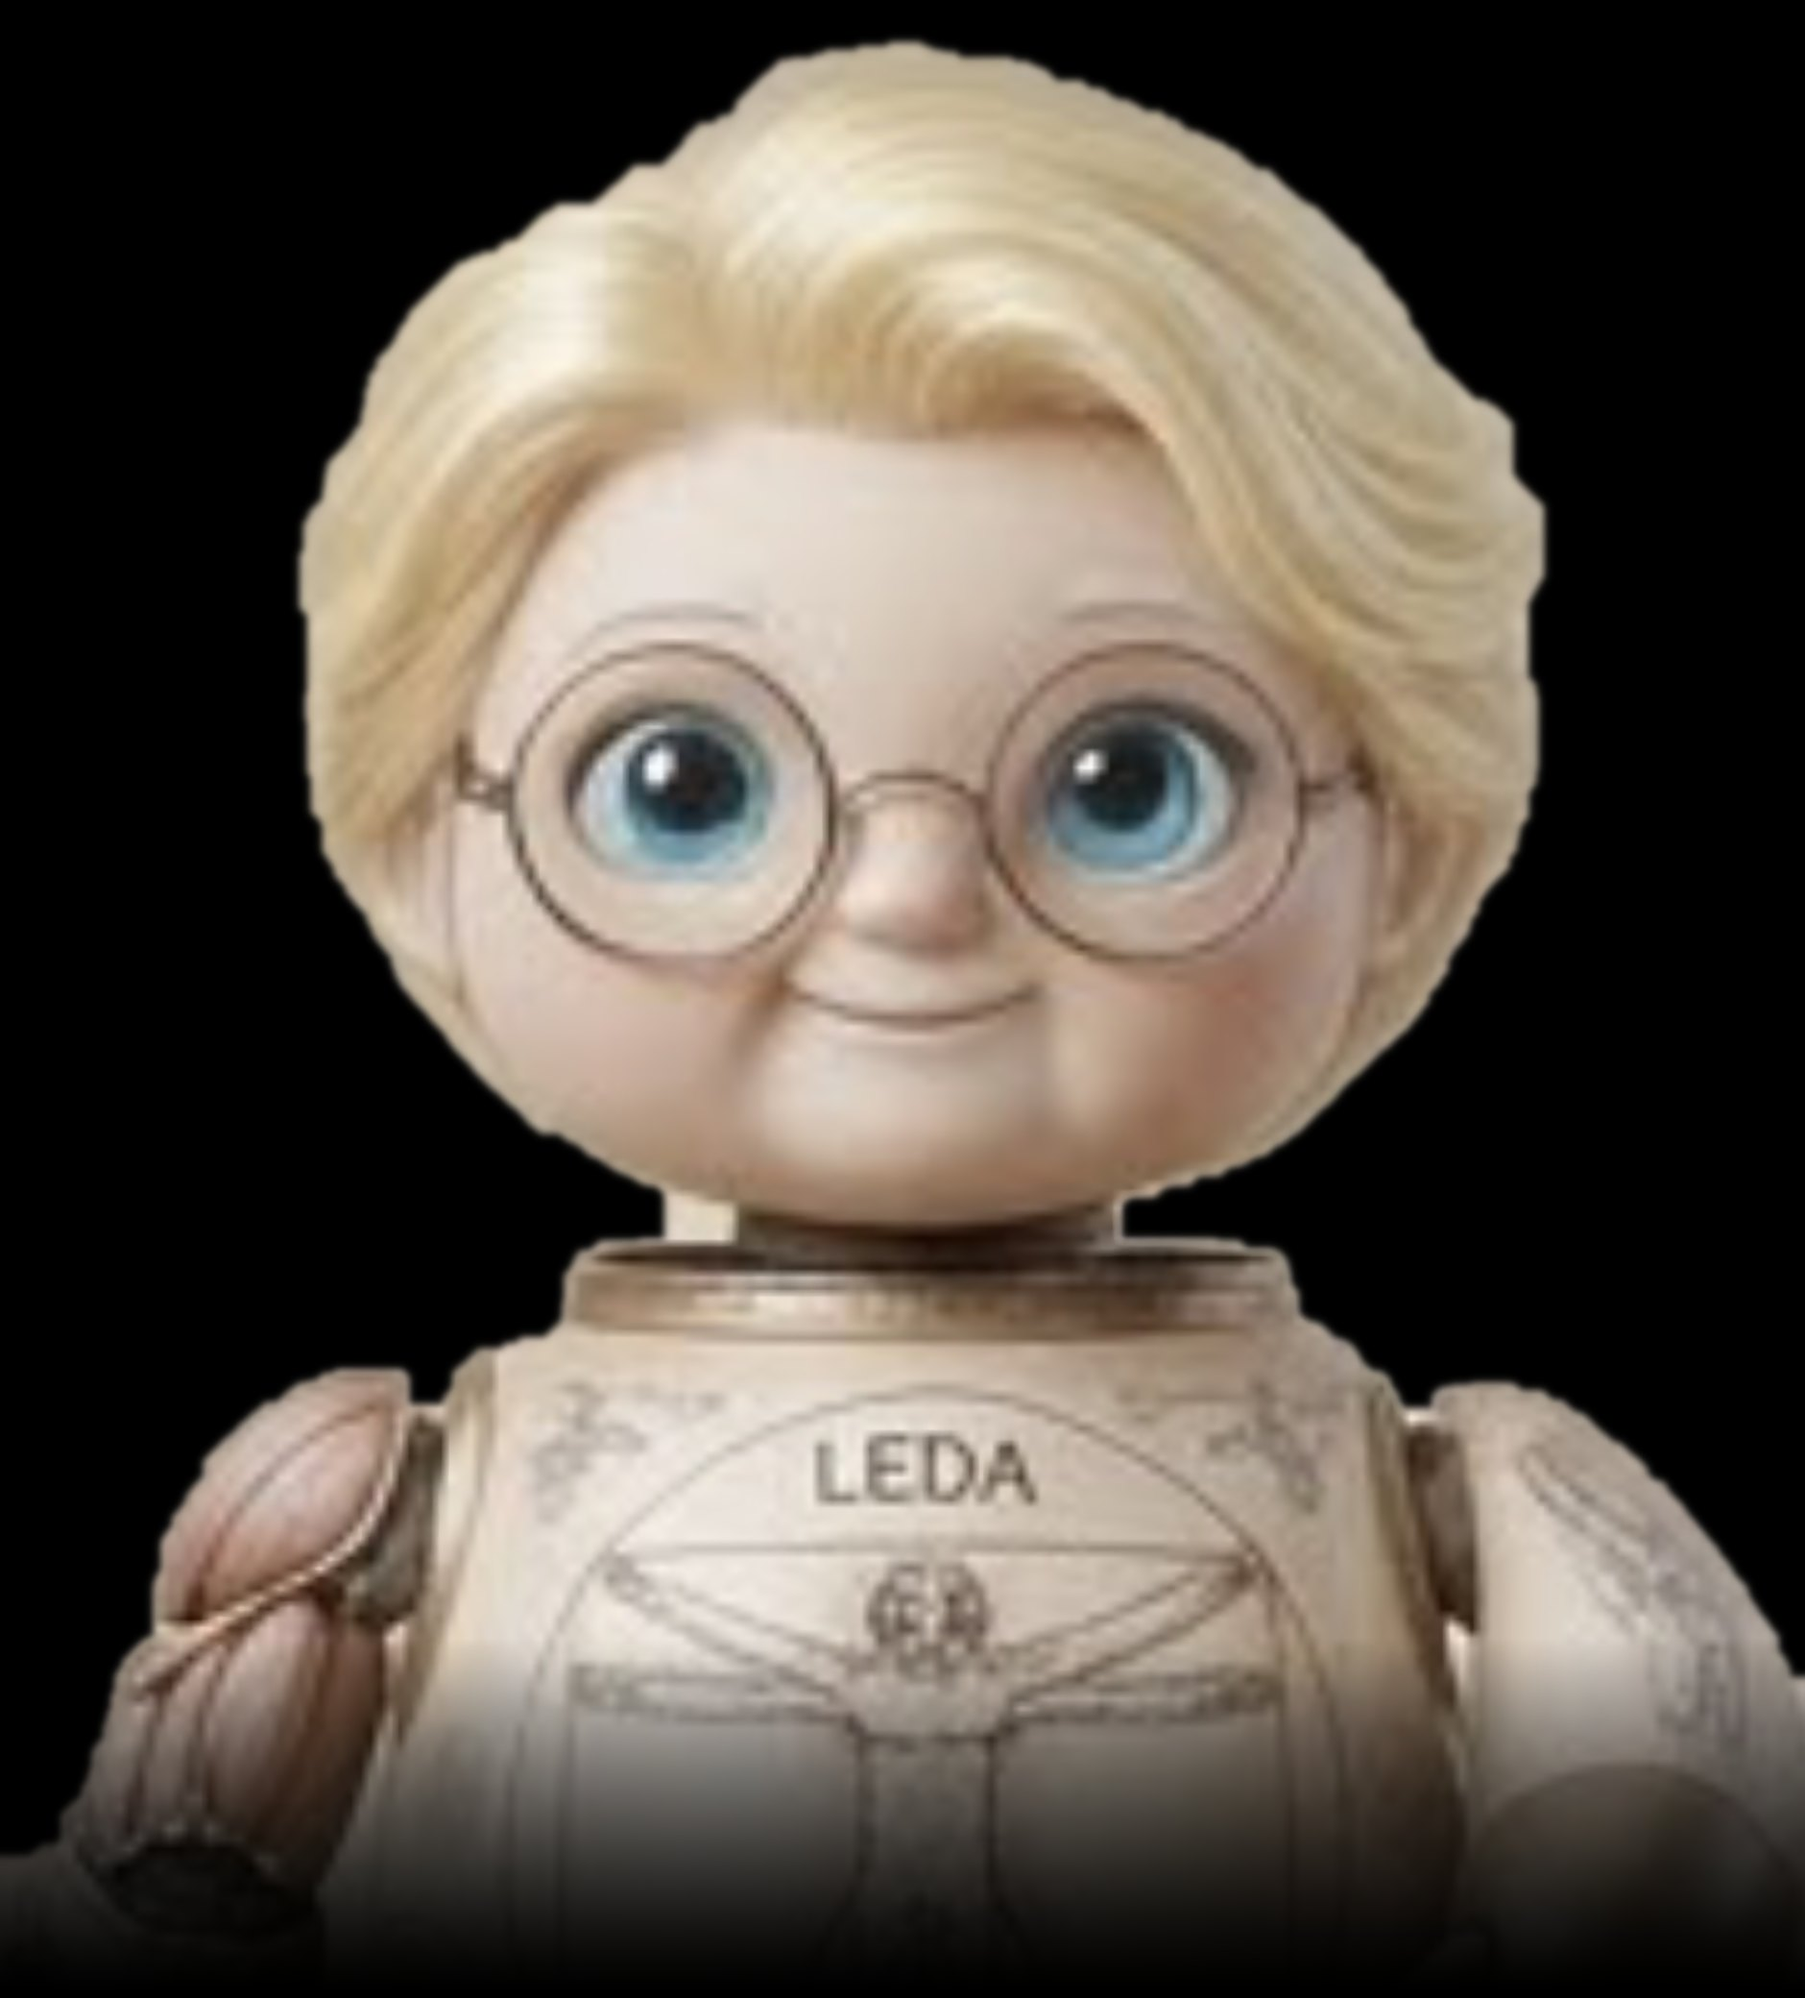
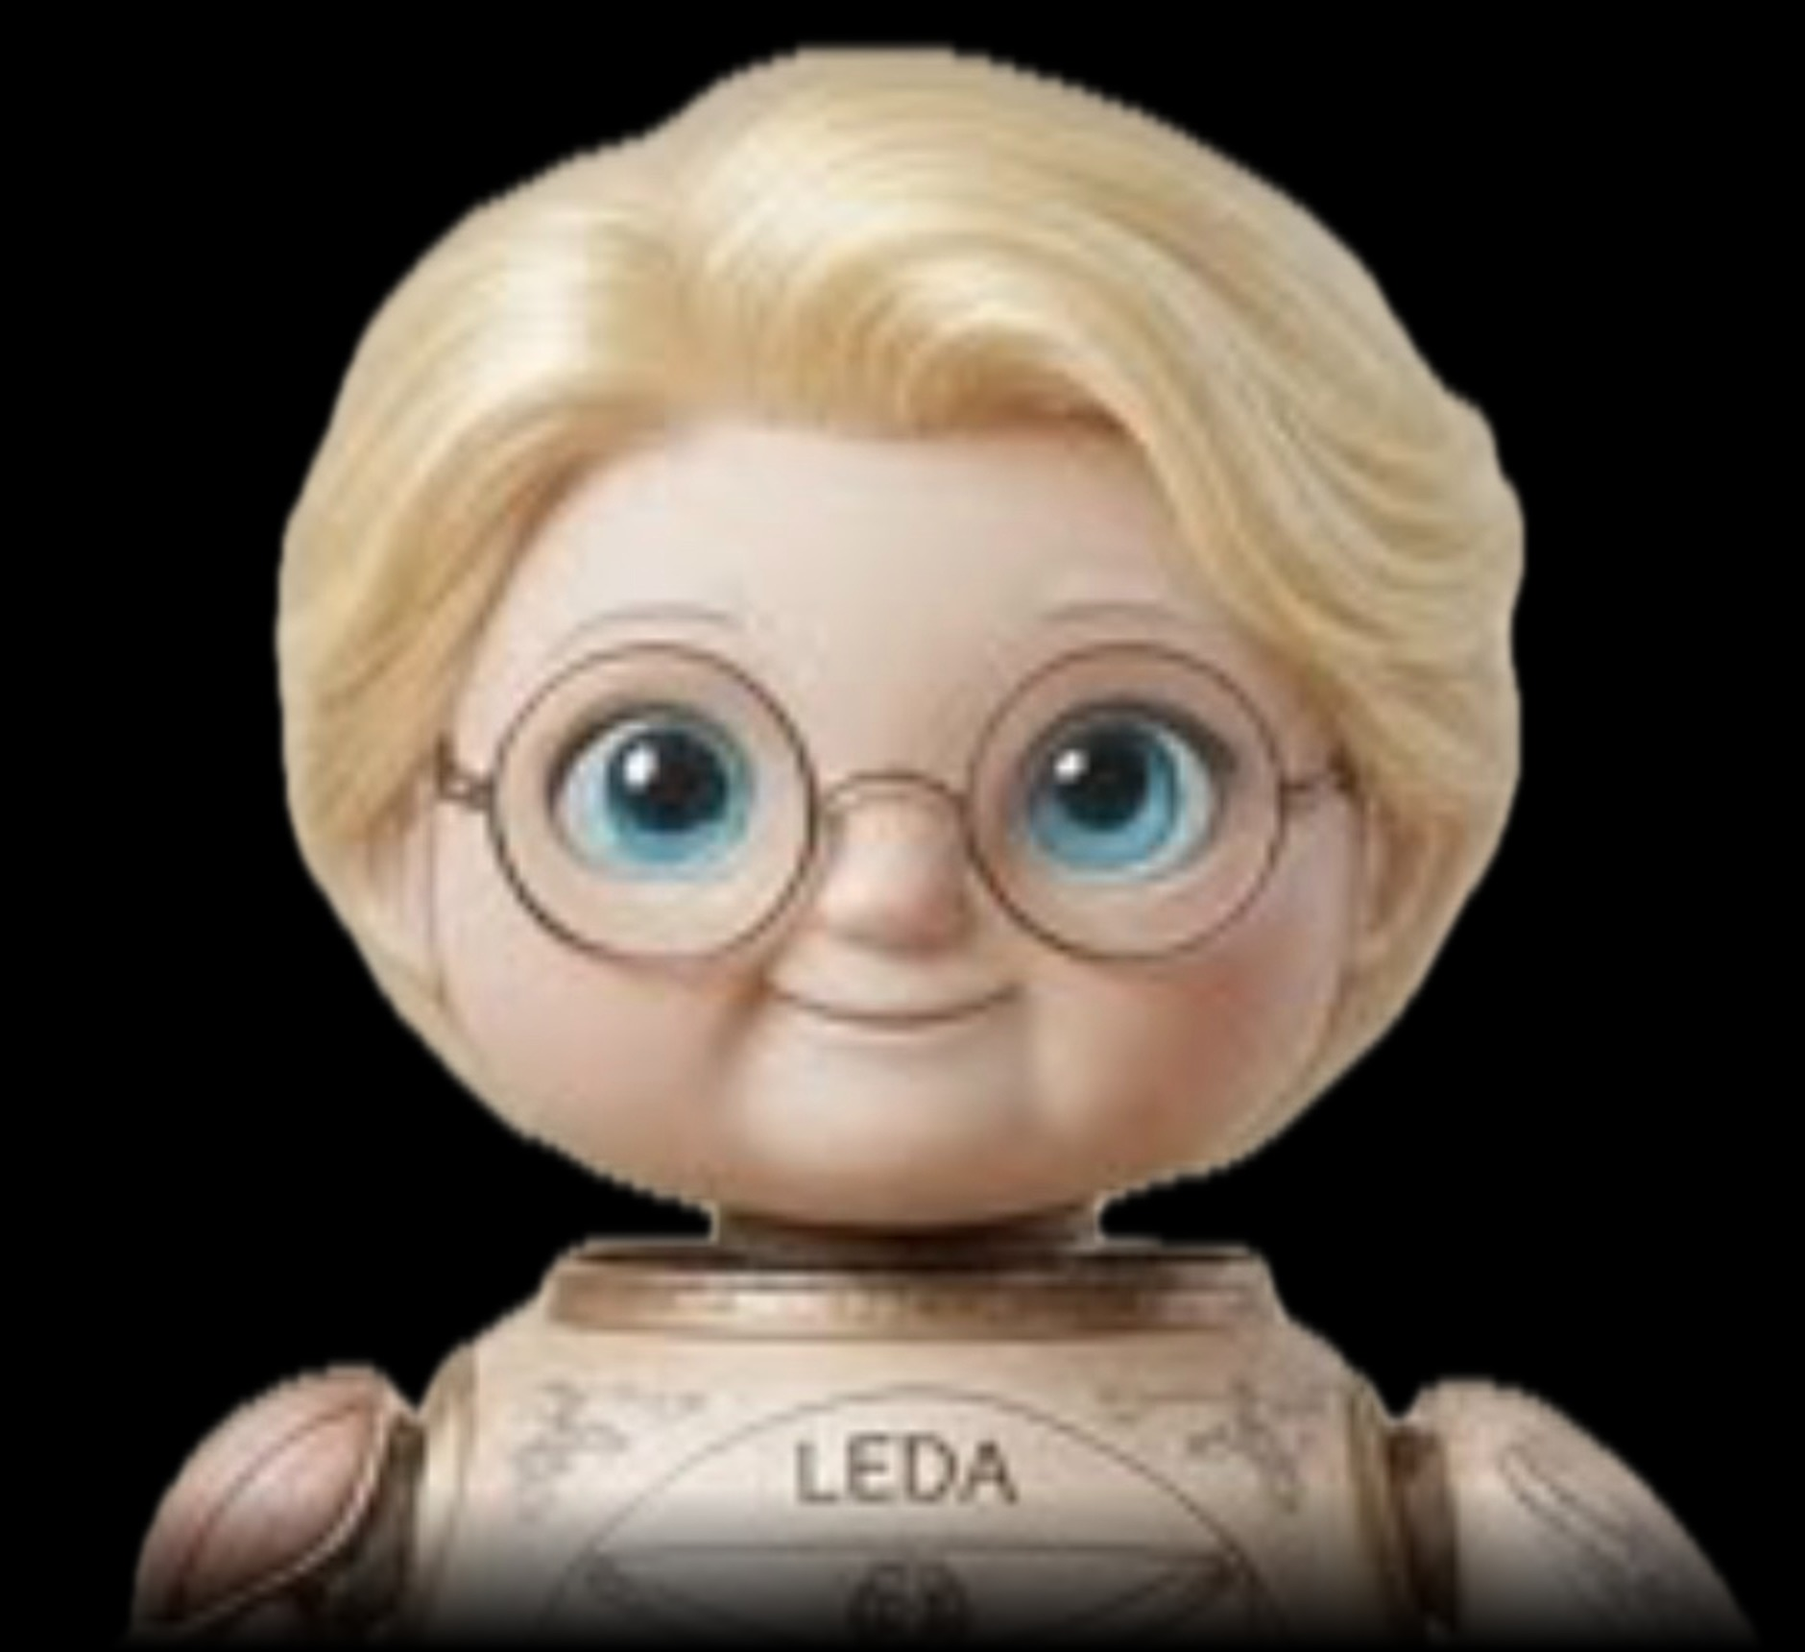
Leda: busto recortado do cabelo até o início do Vitruviano, fundo preto

diff --git a/app-leda/full.html b/app-leda/full.html
@@ -462,7 +462,7 @@ html body #hud[data-tab] .face img.retrato,html body #hud.com-rosto[data-tab] .f
 /* ABA LEDA: busto grande no preto, rosto bem definido */
 html body #hud[data-tab="home"] .face{position:fixed!important;left:0!important;right:0!important;top:0!important;bottom:calc(var(--tabsH,64px) + var(--micZ,0px))!important;width:auto!important;height:auto!important;aspect-ratio:auto!important;border-radius:0!important;box-shadow:none!important;transform:none!important;background:#000!important}
 html body #hud[data-tab="home"] .face .ledaBusto{display:block!important;position:absolute!important;left:50%!important;bottom:0!important;top:auto!important;
-  height:min(100%,calc(100vw * 1.106))!important;width:auto!important;max-width:none!important;transform:translateX(-50%);transform-origin:50% 100%;
+  height:min(100%,calc(100vw * 0.915))!important;width:auto!important;max-width:none!important;transform:translateX(-50%);transform-origin:50% 100%;
   animation:ledaRespira 5.5s ease-in-out infinite}
 html body #hud[data-tab="home"][data-state="speaking"] .face .ledaBusto{animation:ledaFala .9s ease-in-out infinite}
 html body #hud[data-tab="home"][data-state="thinking"] .face .ledaBusto{animation:ledaPensa 1.6s ease-in-out infinite}

diff --git a/app-leda/gem.html b/app-leda/gem.html
@@ -359,7 +359,7 @@ html body #hud[data-tab] .face img.retrato,html body #hud.com-rosto[data-tab] .f
 /* ABA LEDA: busto grande no preto, rosto bem definido */
 html body #hud[data-tab="home"] .face{position:fixed!important;left:0!important;right:0!important;top:0!important;bottom:calc(var(--tabsH,64px) + var(--micZ,0px))!important;width:auto!important;height:auto!important;aspect-ratio:auto!important;border-radius:0!important;box-shadow:none!important;transform:none!important;background:#000!important}
 html body #hud[data-tab="home"] .face .ledaBusto{display:block!important;position:absolute!important;left:50%!important;bottom:0!important;top:auto!important;
-  height:min(100%,calc(100vw * 1.106))!important;width:auto!important;max-width:none!important;transform:translateX(-50%);transform-origin:50% 100%;
+  height:min(100%,calc(100vw * 0.915))!important;width:auto!important;max-width:none!important;transform:translateX(-50%);transform-origin:50% 100%;
   animation:ledaRespira 5.5s ease-in-out infinite}
 html body #hud[data-tab="home"][data-state="speaking"] .face .ledaBusto{animation:ledaFala .9s ease-in-out infinite}
 html body #hud[data-tab="home"][data-state="thinking"] .face .ledaBusto{animation:ledaPensa 1.6s ease-in-out infinite}
